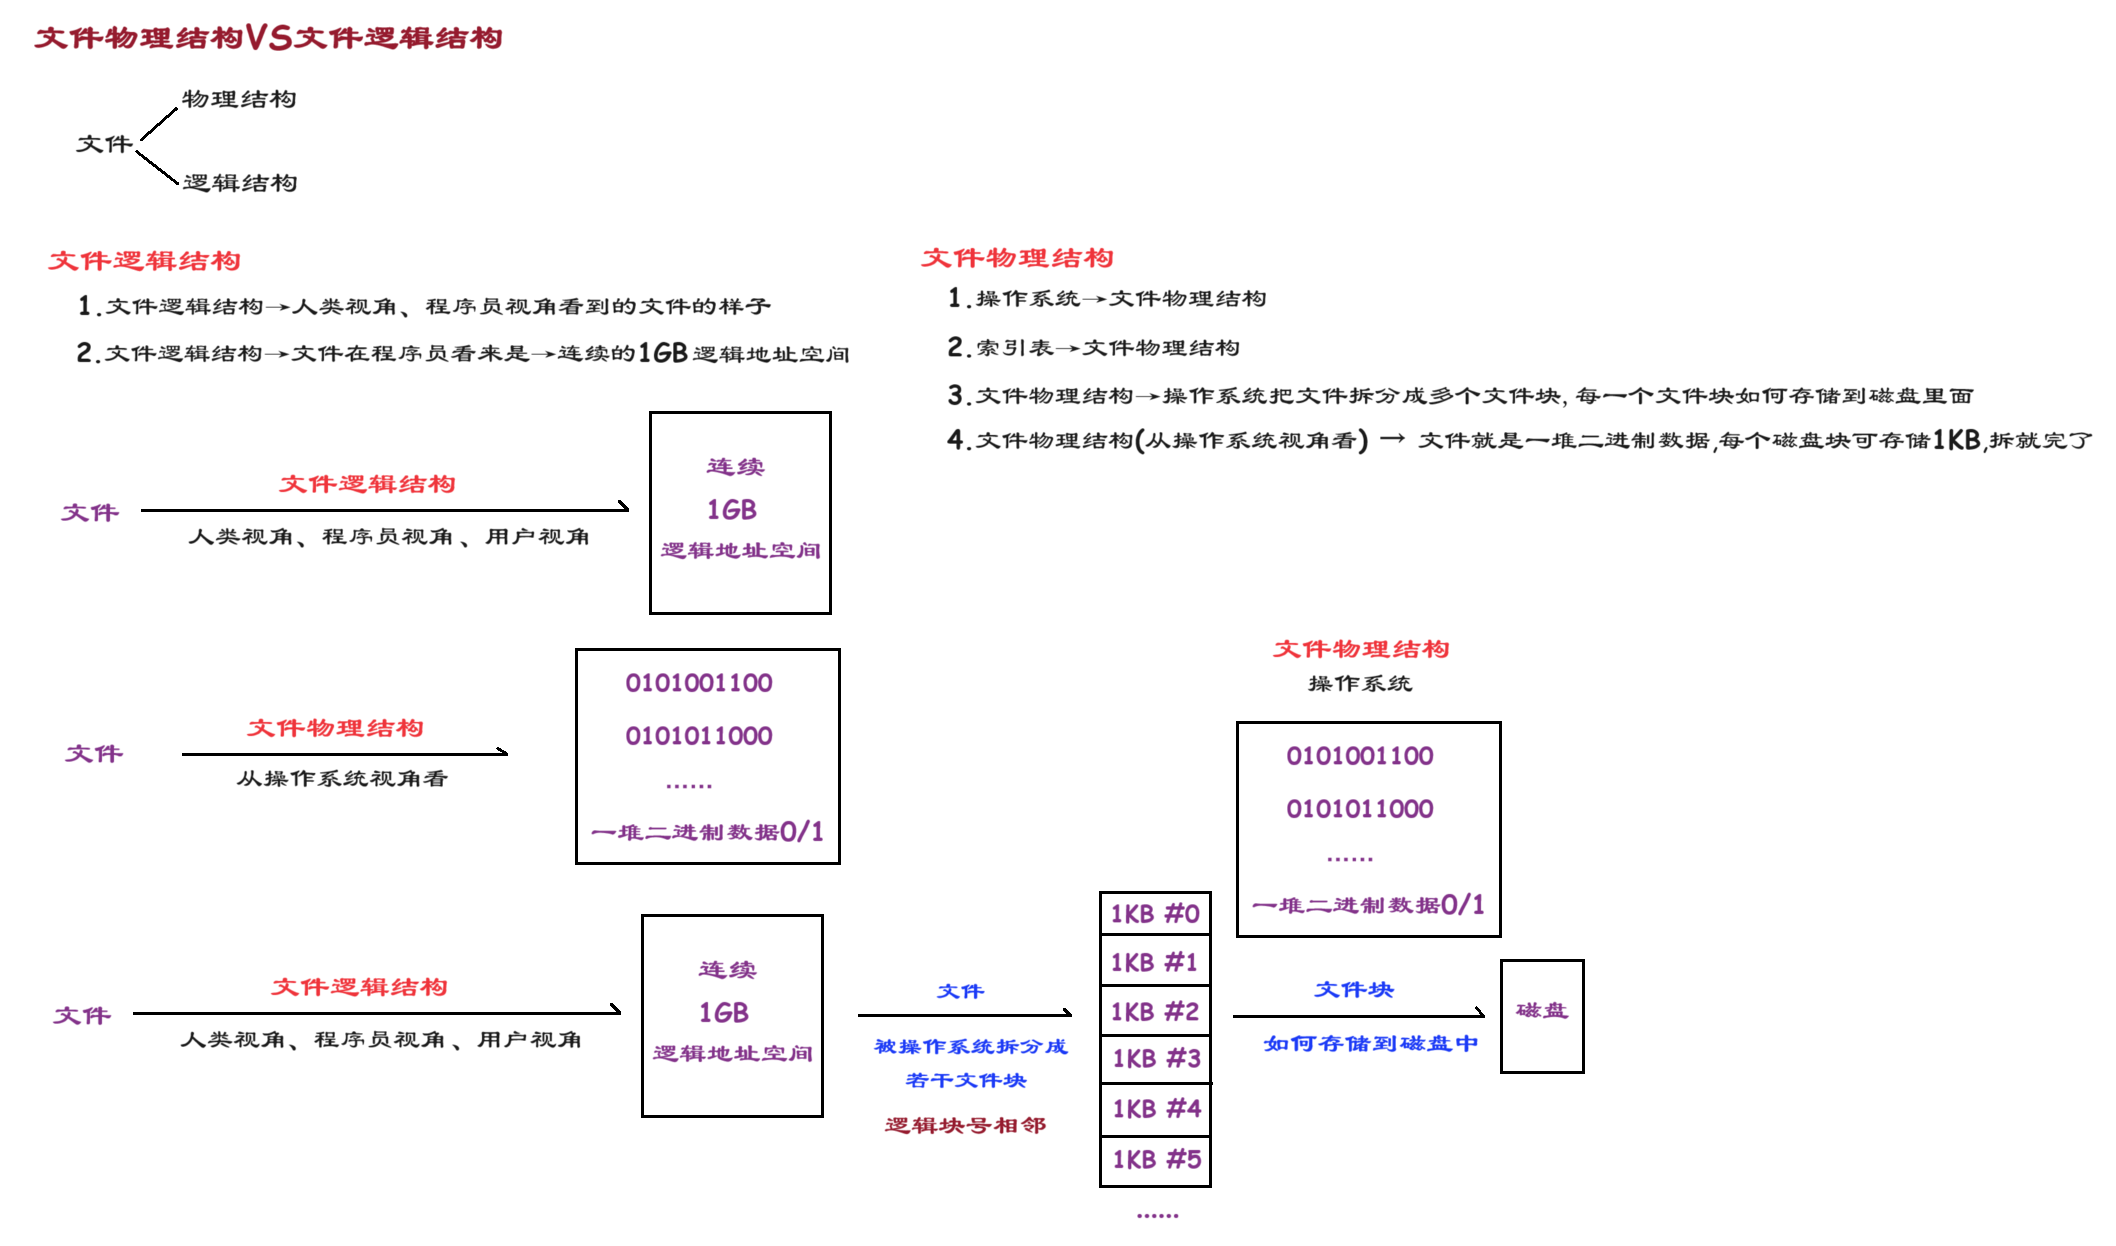
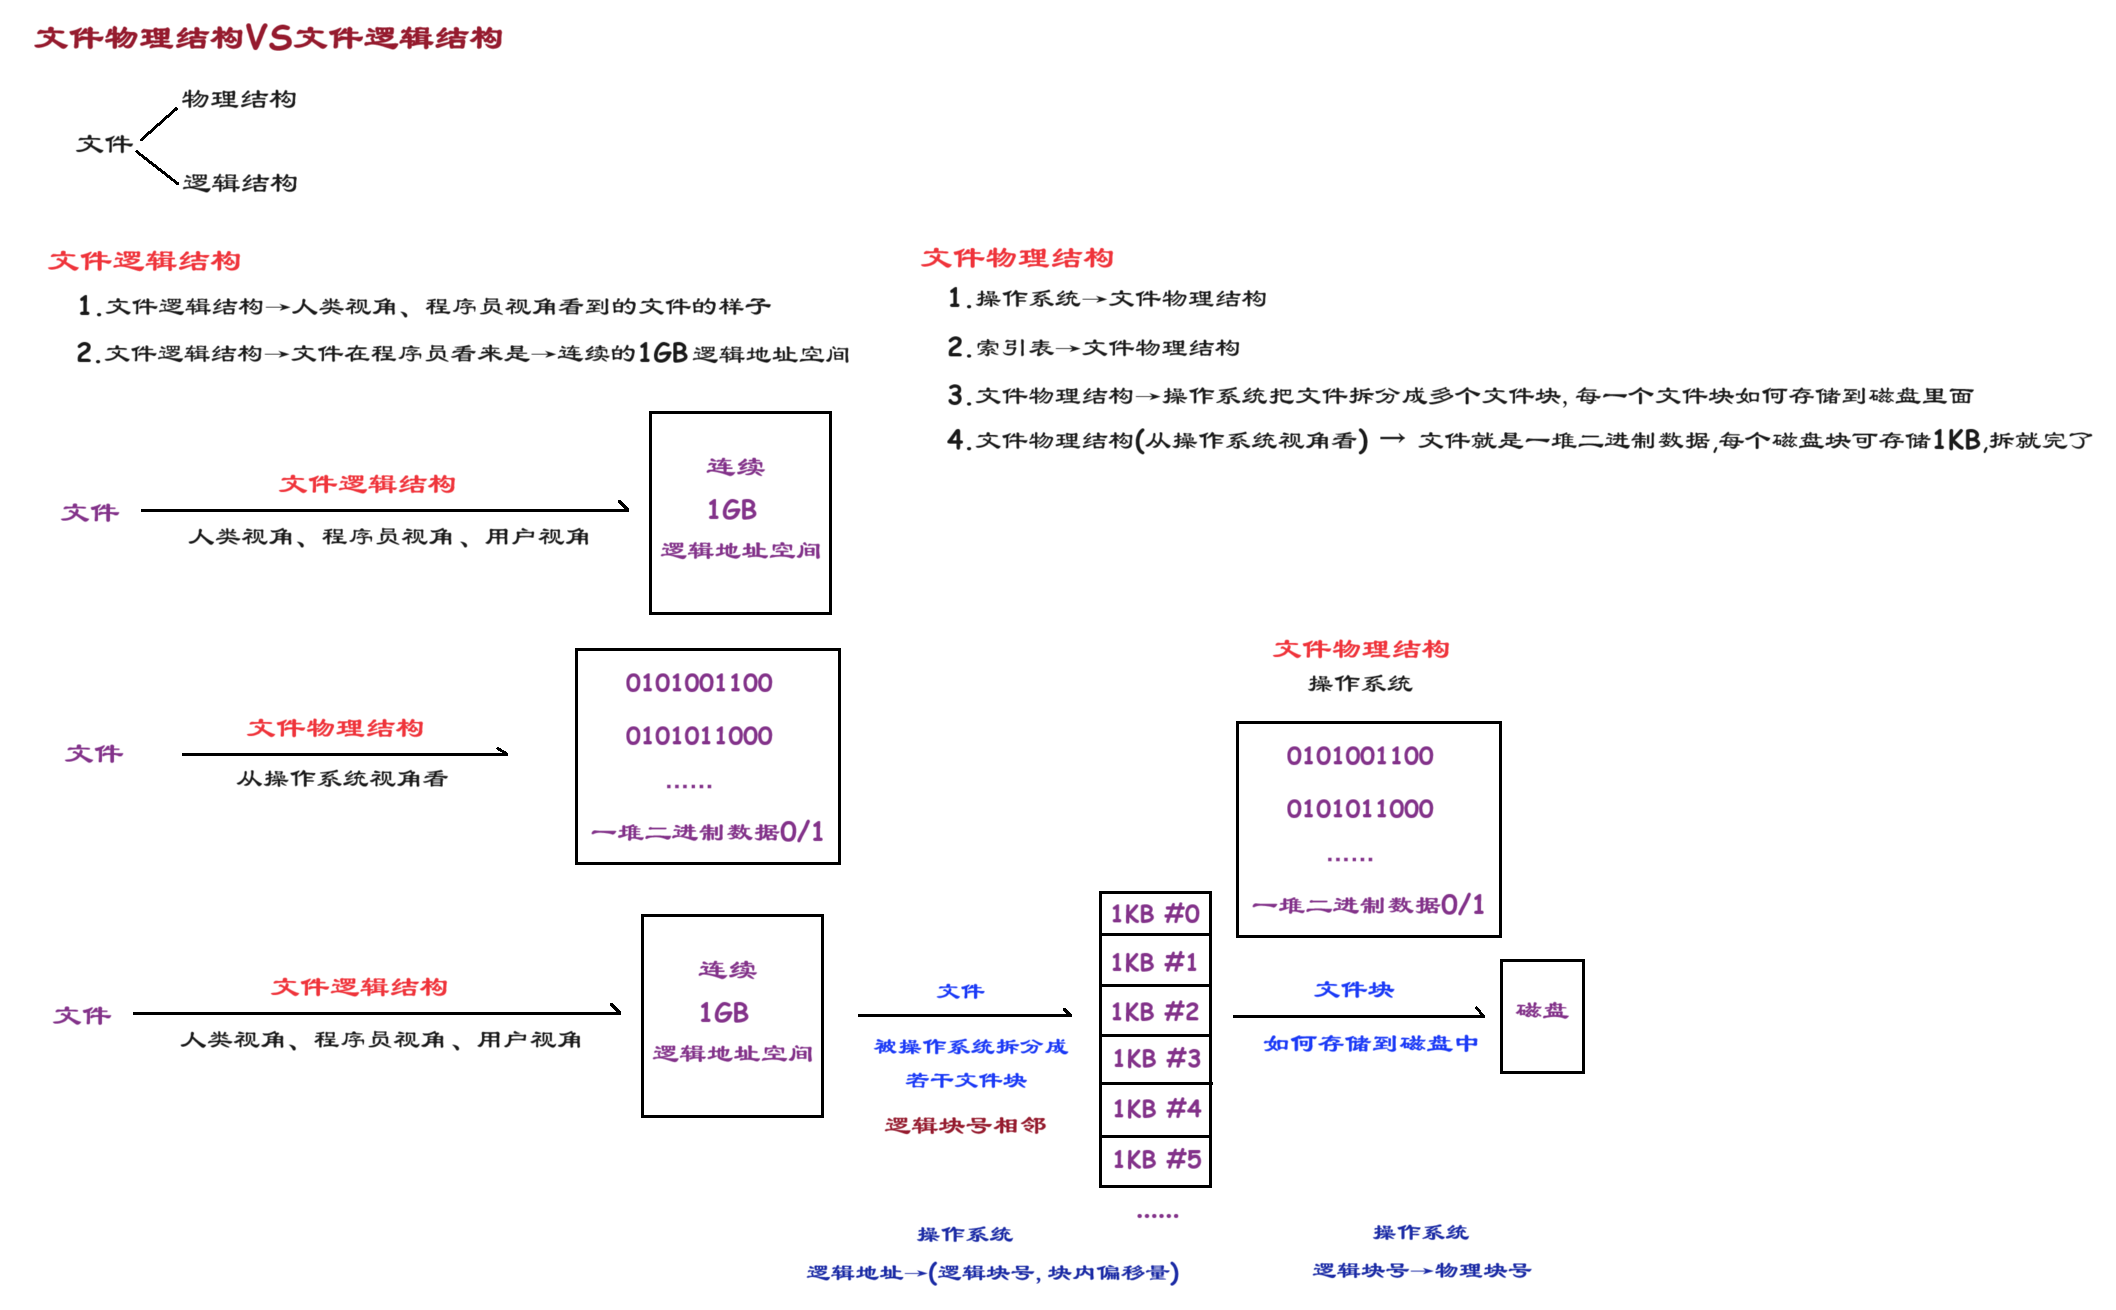
1

diff --git a/03 王道定向班/01 操作系统直播课/03 P3直播-操作系统大题带练和答疑/01 Note.md b/03 王道定向班/01 操作系统直播课/03 P3直播-操作系统大题带练和答疑/01 Note.md
@@ -2,21 +2,19 @@
 
 
 
-# 00 第四章 文件系统汇总
 
-![image-20230913163946615](https://cvp.oss-cn-shanghai.aliyuncs.com/picgo/202309131639030.png)
 
 
 
 # 01 文件逻辑结构vs文件物理结构
 
-![image-20230913165017088](https://cvp.oss-cn-shanghai.aliyuncs.com/picgo/202309131650256.png)
+![image-20230913173324993](https://cvp.oss-cn-shanghai.aliyuncs.com/picgo/202309131733271.png)
 
 
 
 # 02 连续分配 链接分配 索引分配
 
-![image-20230913165037146](https://cvp.oss-cn-shanghai.aliyuncs.com/picgo/202309131650357.png)
+![image-20230913173602625](https://cvp.oss-cn-shanghai.aliyuncs.com/picgo/202309131736994.png)
 
 
 
